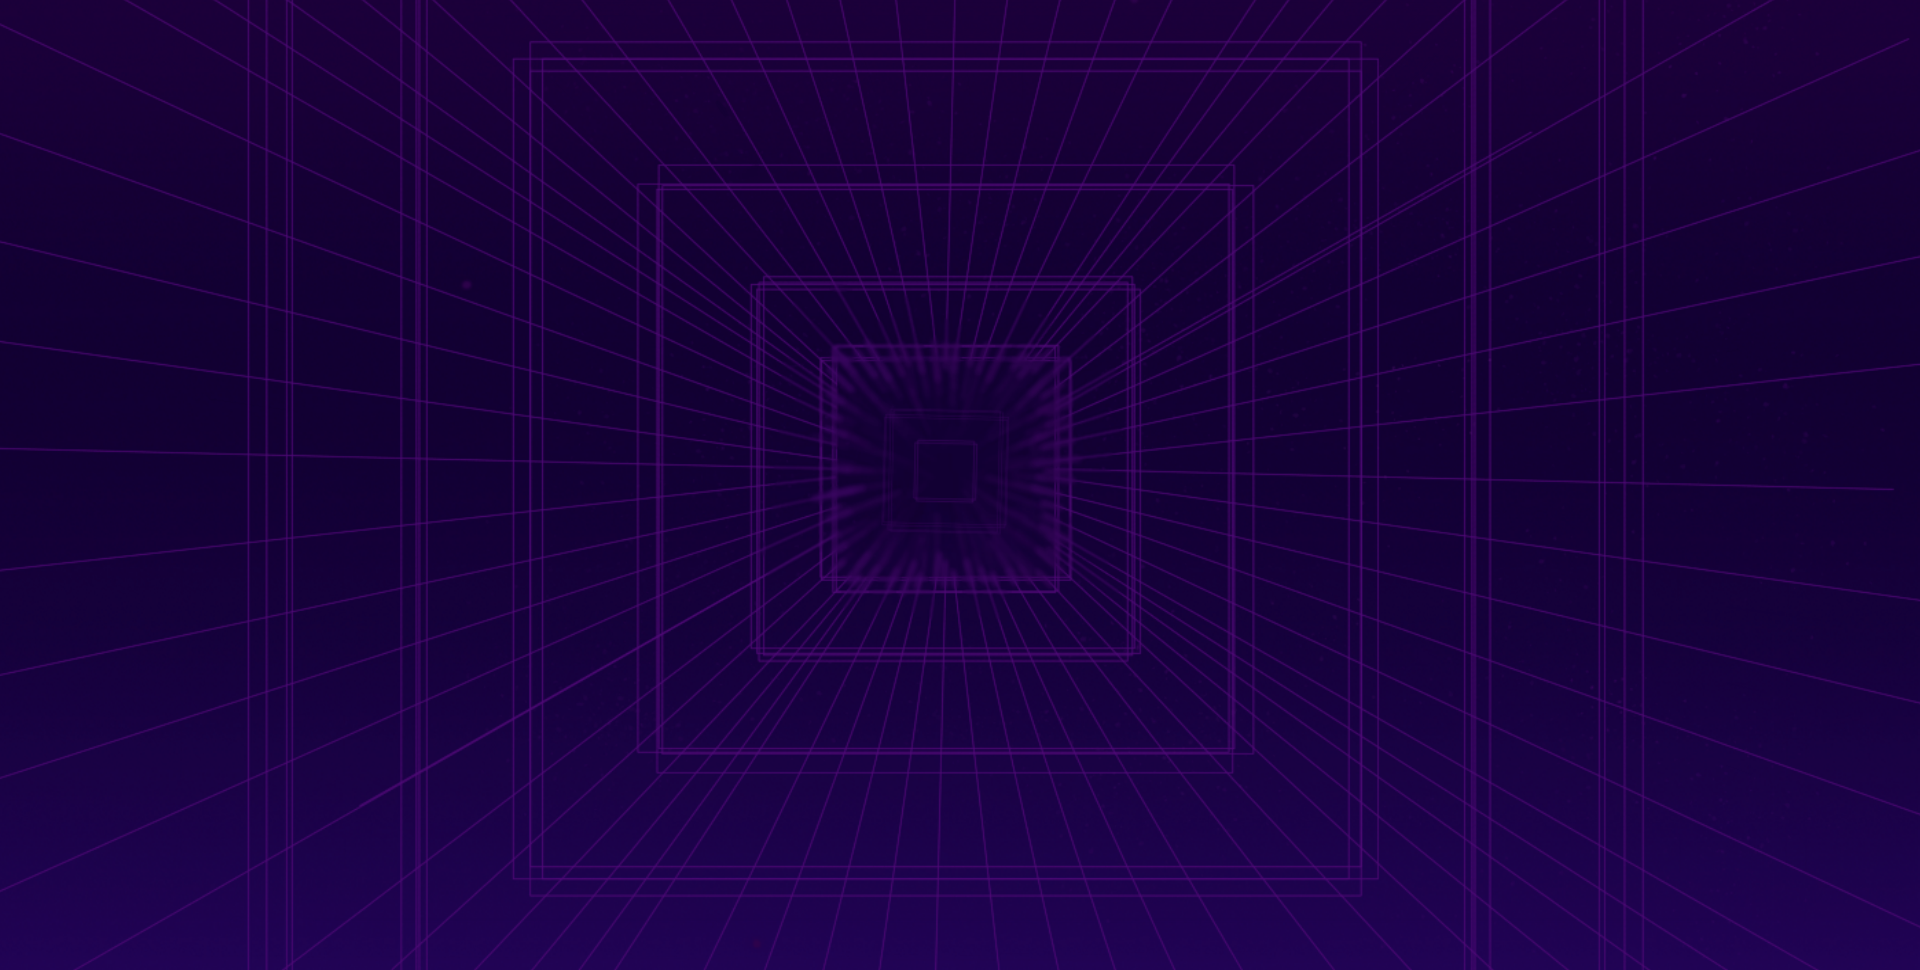
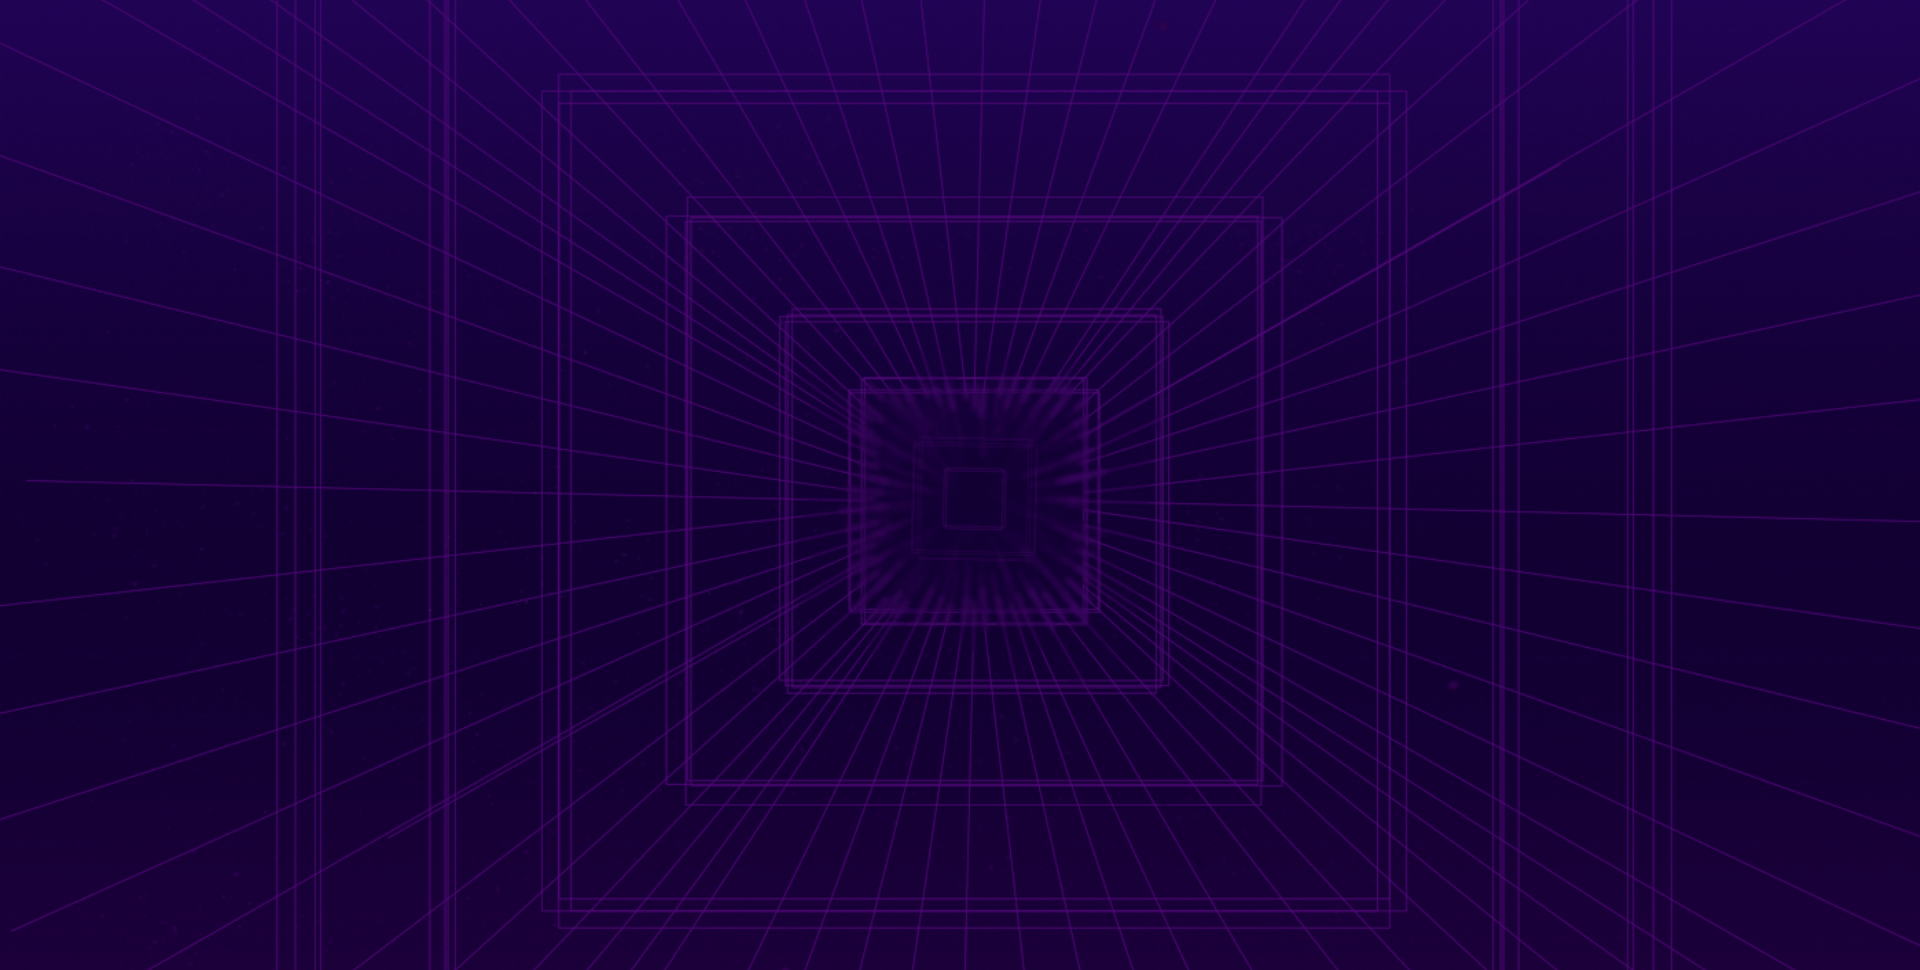
Running

diff --git a/src/companents/discussion/discussion.module.css b/src/companents/discussion/discussion.module.css
@@ -1,18 +1,15 @@
 
-
-
-
 .discussion {
     border: 5px solid #ecc30c;
     box-shadow: 0 0 15px #ecc30c, inset 0 0 30px #ecc30c;
     border-radius: 10px;
-    min-height: 500px;
+
     position: absolute;
     top: 2%;
     right: 5%;
     width: 90%;
     margin: 0 auto;
-    min-width: 700px;
+
 
 }
 
@@ -46,8 +43,39 @@
     flex-direction: row;
     height: 100px;
 }
+
 @font-face {
     font-family: "Neoneon";
     src: url("../../fonts/Neoneon1.otf") format("truetype");
     font-style: normal;
-    font-weight: normal;}
+    font-weight: normal;
+}
+
+@media (max-width: 700px) {
+
+    .discussion {
+        width: 88%;
+        height:94%;
+        right: 4%;
+        top: 2%
+
+    }
+
+    .top {
+
+        display: inline-block;
+        text-align: center;
+
+    }
+
+    .choose {
+        font-size: 5em;
+        padding: 10% 15%;
+        flex-grow: unset;
+
+    }
+    .bottom {
+        flex-grow: unset;
+
+    }
+}

diff --git a/src/index.css b/src/index.css
@@ -1,13 +1,28 @@
 body {
-   background: url(back.png) no-repeat;
+   background-image: url(back.png);
+    background-repeat: no-repeat;
+    background-position: right top;
     -moz-background-size: 100%;
     -webkit-background-size: 100%;
     -o-background-size: 100%;
     background-size: 100%;
-    background-color: #120033;
+
+    background-position-x: center;
+    background-position-y: center;
     color: #E5E5E5;
     font-family: RobotoMono, serif;
 }
+@media (max-width: 1400px) {
+    body {
+        background: url(back.png) no-repeat 54% 16%;}
+}
+@media (max-width: 900px) {
+    /* это будет показано при разрешении монитора до 930 пикселей */
+    body {
+        background: url(back1.png) no-repeat 54% 30%;}
+
+}
+
 @font-face {
     font-family: "RobotoMono";
     src: url("fonts/RobotoMono.ttf") format("truetype");

diff --git a/src/companents/inGame/InGame.module.css b/src/companents/inGame/InGame.module.css
@@ -7,29 +7,43 @@
     right: 5%;
     width: 90%;
     margin: 0 auto;
-    min-width: 700px;
+
     min-height: 500px;
 
 }
+
 .but {
     margin-left: 10px;
 }
+
 .but:active, .but:focus {
-    outline:none;
+    outline: none;
 }
+
 .block {
 
     display: grid;
     grid-template-columns: 1fr 3fr 1fr;
 
 }
+
 .words {
 
     font-style: normal;
     color: #ecc30c;
     text-align: center;
     display: inline;
-    font-family: RobotoMono,sans-serif;
+    font-family: RobotoMono, sans-serif;
 
+
+}
+
+@media (max-width: 800px) {
+    /* это будет показано при разрешении монитора до 930 пикселей */
+    .discussion {
+        width: 88%;
+        height:94%;
+        right: 4%;
+        top: 2%}
 
 }

diff --git a/src/Redux/discussionReducer.js b/src/Redux/discussionReducer.js
@@ -6,7 +6,15 @@ let initialState = {
         {text: 'КРИТЕРИЙ 4'},
         {text: 'КРИТЕРИЙ 5'},
         {text: 'КРИТЕРИЙ 6'},
-        {text: 'КРИТЕРИЙ 7'}
+        {text: 'КРИТЕРИЙ 7'},
+        {text: 'КРИТЕРИЙ 8'},
+        {text: 'КРИТЕРИЙ 9'},
+        {text: 'КРИТЕРИЙ 10'},
+        {text: 'КРИТЕРИЙ 11'},
+        {text: 'КРИТЕРИЙ 12'},
+        {text: 'КРИТЕРИЙ 13'},
+        {text: 'КРИТЕРИЙ 14'},
+        {text: 'КРИТЕРИЙ 15'}
     ],
     flag: -1
 }

diff --git a/src/companents/enter/mainWindow/mainWindow.module.css b/src/companents/enter/mainWindow/mainWindow.module.css
@@ -37,3 +37,27 @@
 .but2 {
     right: 7%;
 }
+@media (max-width: 800px){
+    .mainWindow {
+        right: 5%; top: 28%; width: 90%; height: 44%;
+        }
+    .placeForEnter{ font-size: 0.8em
+    }
+    .buttons {
+        position: fixed;
+        bottom: 0;
+
+        height: 45px;
+        display: grid;
+        grid-template-columns: 2fr 1fr;
+        text-align: center;
+
+    }
+    .but1 {
+        margin-left: 18%;
+    }
+    .but2 {
+        margin-left: 5%;
+    }
+
+}

diff --git a/src/companents/discussion/criterion/criterion.module.css b/src/companents/discussion/criterion/criterion.module.css
@@ -3,9 +3,19 @@
    height: 170px;
    width: 60%;
    margin: 0 20%;
-   min-width: 300px;
+
    border-radius: 20px;
    text-align: center;
    font-size: 3em;
-   padding-top: 90px;
+   padding-top: 10%;
+}
+@media (max-width: 700px) {
+
+   .crit {
+      padding-top: 18%;
+      margin: 6% 0 0 0;
+      font-size: 2em;
+      width: 96%;
+      height: 130px;
+   }
 }

diff --git a/src/companents/discussion/Buttons/Buttons.module.css b/src/companents/discussion/Buttons/Buttons.module.css
@@ -1,10 +1,6 @@
 .buttons {
     flex-grow: 1;
-
-
     text-align: right;
-
-
 }
 
 .but1 {
@@ -12,4 +8,15 @@
 }
 .but2 {
     display: block;
+}
+@media (max-width: 700px) {
+    .buttons {
+        flex-grow: unset;
+        position: fixed;
+        bottom: 10%;
+
+        width: 96%;
+        right: -36%;
+        text-align: center;
+    }
 }

diff --git a/src/companents/discussion/discussion.js b/src/companents/discussion/discussion.js
@@ -5,7 +5,7 @@ import Criterion from "./criterion/criterion";
 import ButtonsContainer from "./Buttons/ButtonsContainer";
 
 const Discussion = (props) => {
-    debugger
+
 
     function randomInteger(min, max) {
         let rand = min - 0.5 + Math.random() * (max - min + 1);

diff --git a/src/companents/inGame/listLeft/listLeft.module.css b/src/companents/inGame/listLeft/listLeft.module.css
@@ -41,3 +41,10 @@
     height: 80%;
     overflow: auto;
 }
+@media (max-width: 800px) {
+
+    .list {
+        margin: 0 0 10px 10%;
+        width: 80%;
+    }
+}

diff --git a/src/companents/discussion/Buttons/ButtonsContainer.js b/src/companents/discussion/Buttons/ButtonsContainer.js
@@ -9,7 +9,7 @@ let mapStateToProps = (state) => {
     }
 }
 let mapDispatchToProps = (dispatch) => {
-    debugger
+
     return {
 
         changeText: () => {
